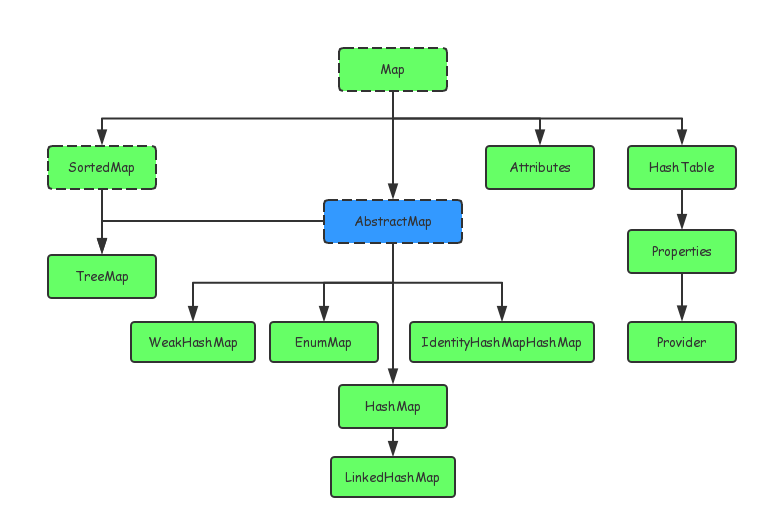
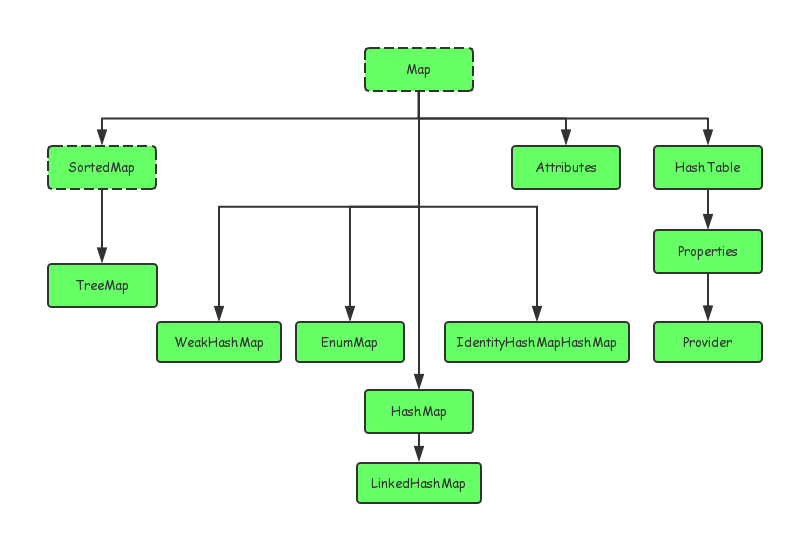
update source

Changed region(s): [[0.0312, 0.0907, 0.9688, 0.9679]]

diff --git a/_posts/2015-11-12-Map整理.md b/_posts/2015-11-12-Map整理.md
@@ -5,7 +5,7 @@ date: 2015-11-12
 category: 编程技术
 tag: Java
 ---
-整理了下Java中Map的结构画了个图, 绿色虚线表示接口, 实现表示类, 蓝色表示抽象类
+整理了下Java中Map的结构画了个图, 虚线表示接口, 实线表示类
 
 
 
